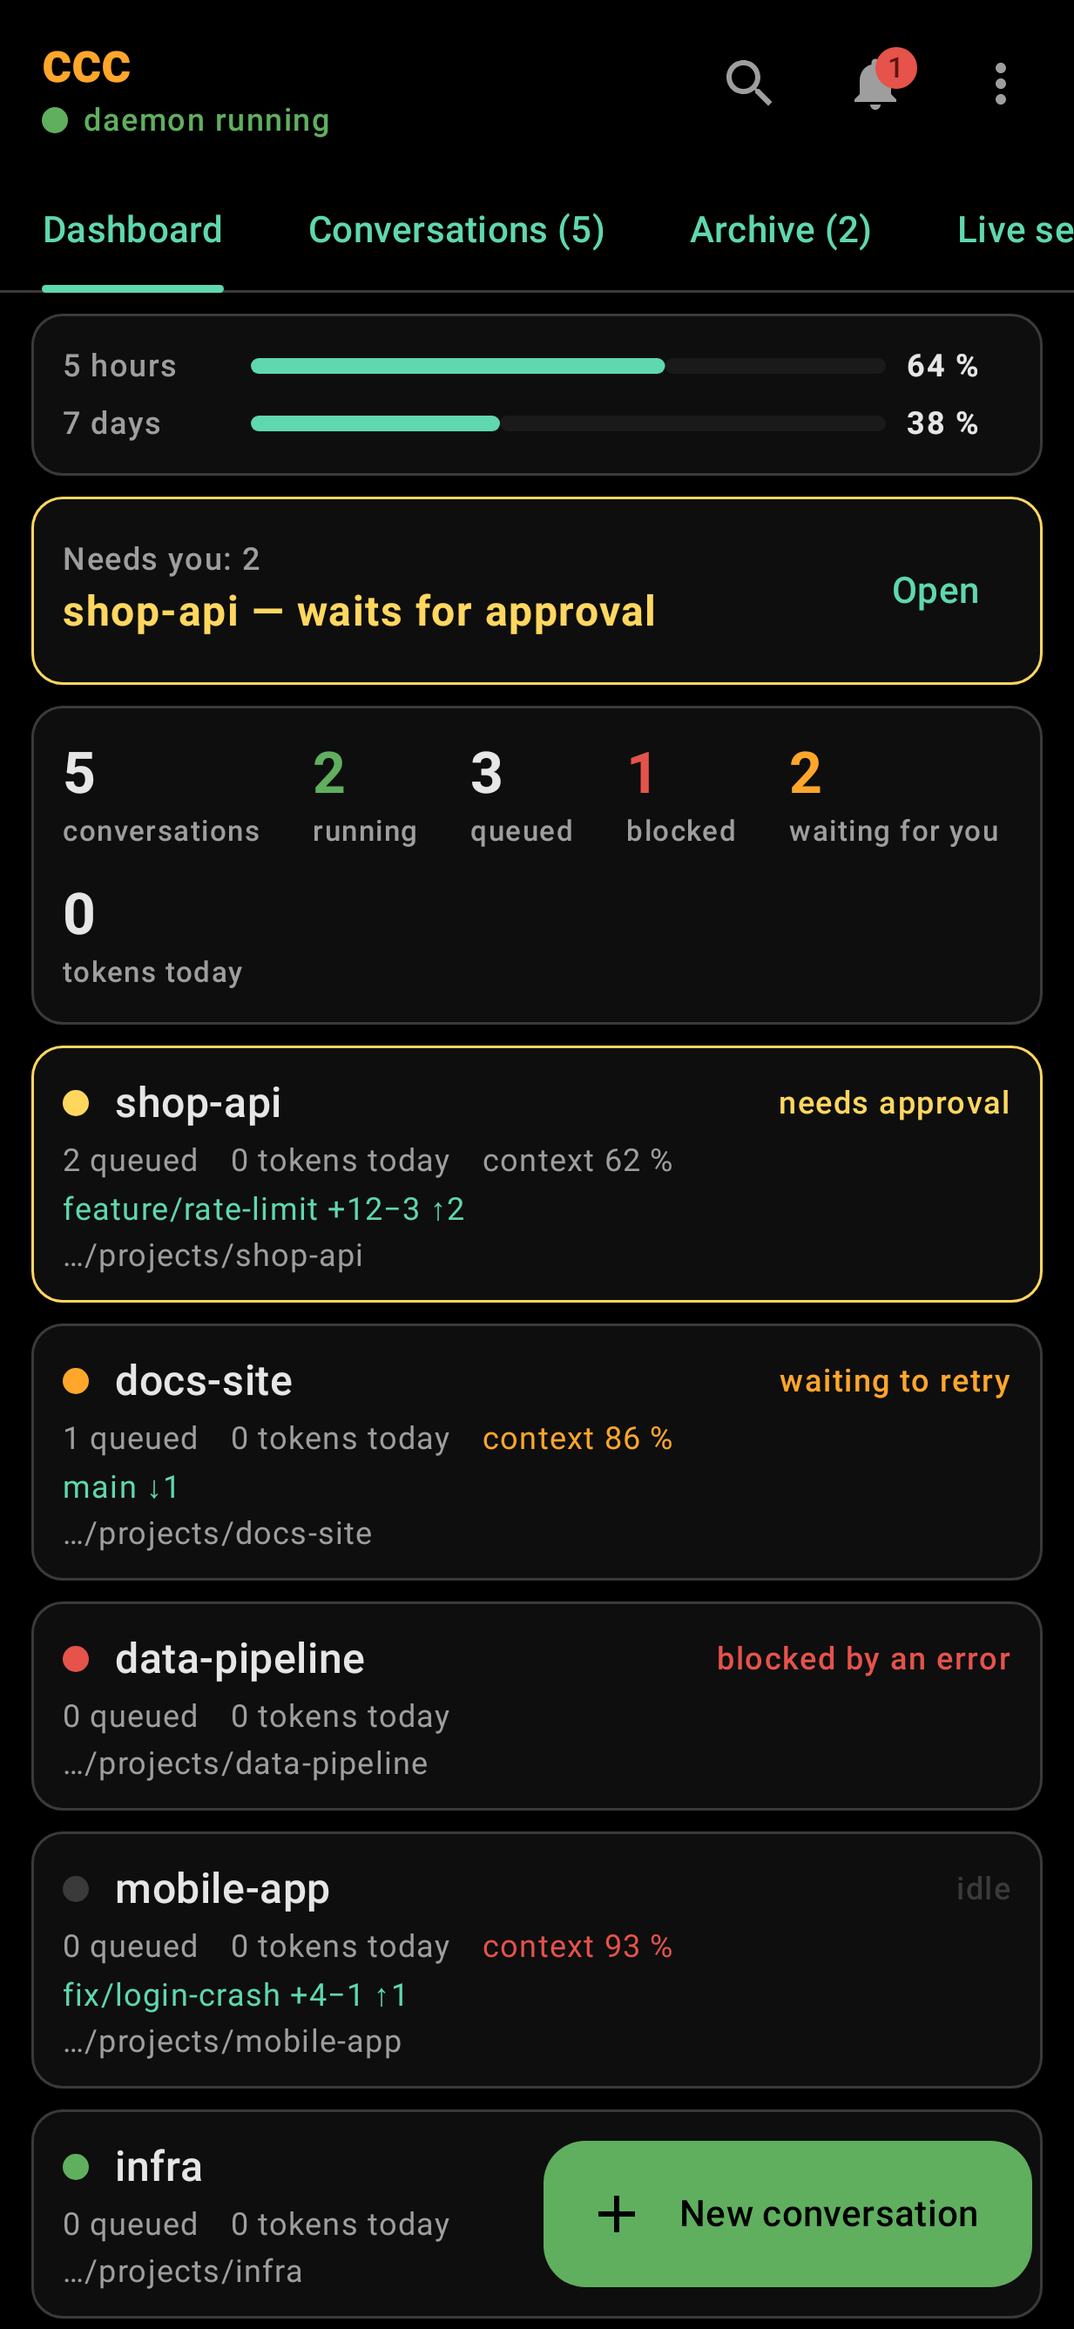
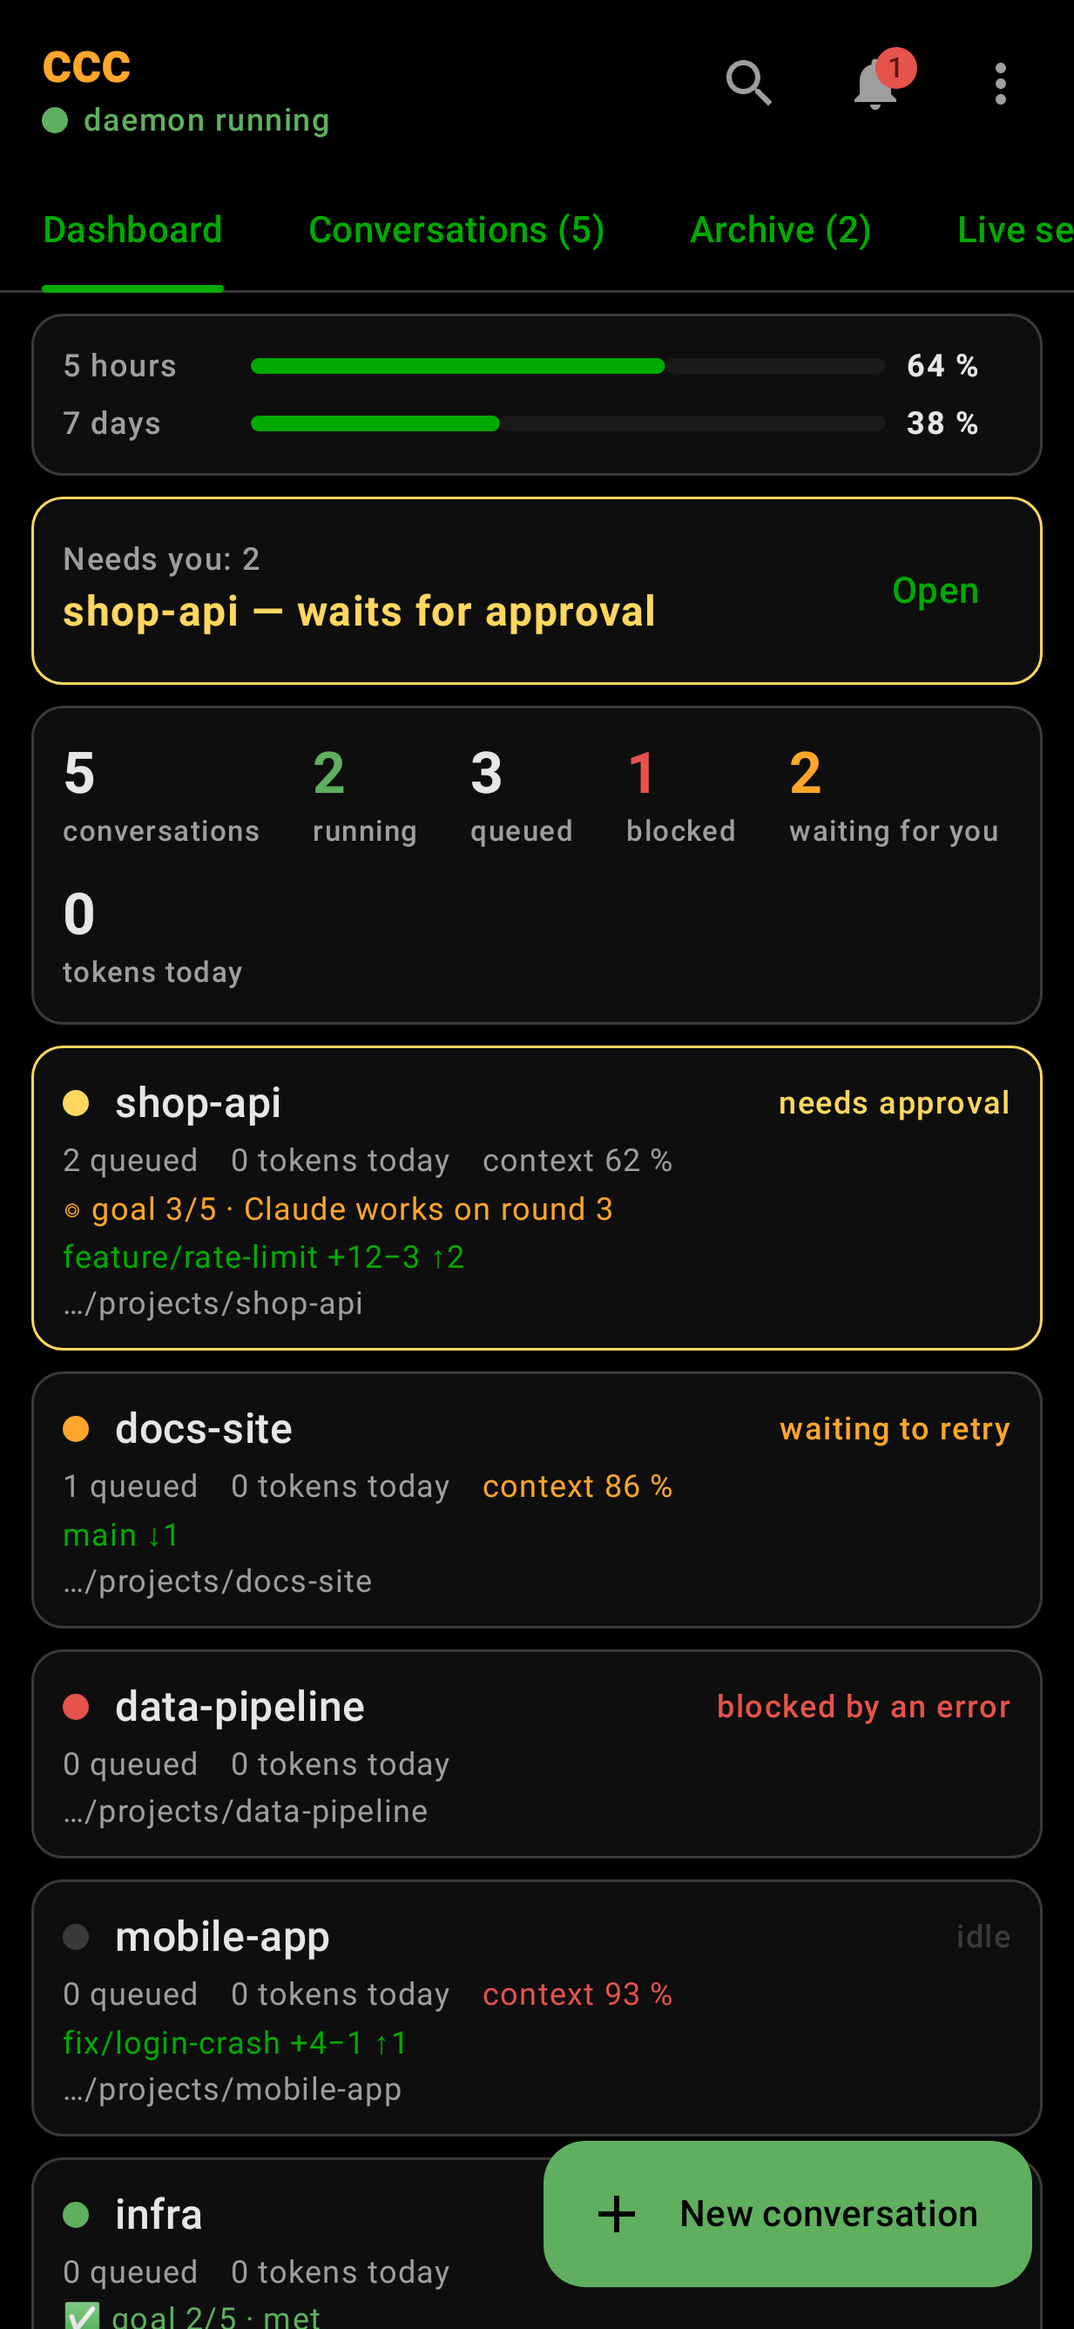
Dashboard and the app's list show a conversation's goal loop
A Goal column in the TUI Dashboard (running: round / rounds; for a day after
it ended: how it ended), a `goal` object in GET /conversations and the same
line in the Android Dashboard. One query for the newest goal of every
conversation (storage.latest_goals).

diff --git a/android/app/src/test/java/io/github/luquas95/ccc/ui/ScreenshotsTest.kt b/android/app/src/test/java/io/github/luquas95/ccc/ui/ScreenshotsTest.kt
@@ -29,6 +29,7 @@ import io.github.luquas95.ccc.data.GitState
 import io.github.luquas95.ccc.data.ListDetail
 import io.github.luquas95.ccc.data.ConversationTokens
 import io.github.luquas95.ccc.data.DayTokens
+import io.github.luquas95.ccc.data.GoalBrief
 import io.github.luquas95.ccc.data.Goals
 import io.github.luquas95.ccc.data.LiveSession
 import io.github.luquas95.ccc.data.ModelTokens
@@ -424,7 +425,8 @@ open class ScreenshotsTest {
             conversations = listOf(
                 Conversation(1, "shop-api", "/home/you/projects/shop-api", "running", "interactive", pending = 2,
                     needsApproval = true, group = Group("own:Release 2.1", "Release 2.1"),
-                    context = ContextFill(124_000, 62, ""), git = GitState("feature/rate-limit", 12, 3, 2, 0)),
+                    context = ContextFill(124_000, 62, ""), git = GitState("feature/rate-limit", 12, 3, 2, 0),
+                    goal = GoalBrief(7, "running", "running", "Claude works on round 3", 3, 5)),
                 Conversation(2, "docs-site", "/home/you/projects/docs-site", "waiting_retry", "interactive", pending = 1,
                     group = Group("own:Release 2.1", "Release 2.1"),
                     context = ContextFill(172_000, 86, "warn"), git = GitState("main", 0, 0, 0, 1)),
@@ -434,7 +436,8 @@ open class ScreenshotsTest {
                     group = Group("project:/home/you/projects/mobile-app", "mobile-app"),
                     context = ContextFill(186_000, 93, "danger"), git = GitState("fix/login-crash", 4, 1, 1, 0)),
                 Conversation(5, "infra", "/home/you/projects/infra", "running", "remote_control",
-                    group = Group("project:/home/you/projects/infra", "infra")),
+                    group = Group("project:/home/you/projects/infra", "infra"),
+                    goal = GoalBrief(8, "passed", "met", "", 2, 5)),
             ),
         )
 

diff --git a/android/app/src/test/java/io/github/luquas95/ccc/data/CccApiTest.kt b/android/app/src/test/java/io/github/luquas95/ccc/data/CccApiTest.kt
@@ -73,6 +73,27 @@ class CccApiTest {
     }
 
     @Test
+    fun `reads the latest goal loop of a conversation for the Dashboard`() = runBlocking {
+        answers["conversations"] = 200 to """[{"id": 1, "name": "shop", "path": "/p", "status": "running",
+            "delivery_mode": "interactive", "goal": {"id": 7, "status": "running", "status_label": "running",
+            "phase_label": "Claude works on round 3", "round": 3, "max_rounds": 5, "finished_at": null}},
+            {"id": 2, "name": "docs", "path": "/d", "status": "idle", "delivery_mode": "headless", "goal": null},
+            {"id": 3, "name": "api", "path": "/a", "status": "idle", "delivery_mode": "headless",
+            "goal": {"id": 8, "status": "passed", "status_label": "met", "phase_label": "", "round": 2, "max_rounds": 5}}]"""
+
+        val (shop, docs, api) = api().conversations()
+
+        assertEquals(true, shop.goal?.running)
+        assertEquals("◎", shop.goal?.icon)
+        assertEquals("Claude works on round 3", shop.goal?.phaseLabel)
+        assertEquals(3, shop.goal?.round)
+        assertEquals(5, shop.goal?.maxRounds)
+        assertNull(docs.goal)
+        assertEquals("✅", api.goal?.icon)
+        assertEquals("met", api.goal?.statusLabel)
+    }
+
+    @Test
     fun `reads the update a new ccc version brings and applies it`() = runBlocking {
         answers["status"] = 200 to """{"version": "0.1.0", "language": "en", "daemon_running": true, "conversations": 1,
             "running": 0, "needs_approval": 0, "android_build": 7,

diff --git a/android/app/src/main/java/io/github/luquas95/ccc/ui/ConversationsScreen.kt b/android/app/src/main/java/io/github/luquas95/ccc/ui/ConversationsScreen.kt
@@ -360,6 +360,20 @@ private fun DashboardRow(conversation: Conversation, onClick: () -> Unit) {
                     )
                 }
             }
+            conversation.goal?.let { goal ->
+                Text(
+                    stringResource(R.string.goal_line, goal.icon, goal.round, goal.maxRounds,
+                        if (goal.running) goal.phaseLabel else goal.statusLabel),
+                    style = MaterialTheme.typography.bodySmall,
+                    color = when (goal.status) {
+                        "running" -> CccColors.Waiting
+                        "passed" -> CccColors.Running
+                        "stopped" -> CccColors.Muted
+                        else -> CccColors.Error
+                    },
+                    maxLines = 1, overflow = TextOverflow.Ellipsis,
+                )
+            }
             conversation.git?.text?.takeIf { it.isNotEmpty() }?.let {
                 Text(it, style = MaterialTheme.typography.bodySmall, color = CccColors.Title, maxLines = 1, overflow = TextOverflow.Ellipsis)
             }

diff --git a/android/app/src/main/java/io/github/luquas95/ccc/data/Models.kt b/android/app/src/main/java/io/github/luquas95/ccc/data/Models.kt
@@ -68,8 +68,23 @@ data class Conversation(
     val group: Group? = null,
     val context: ContextFill? = null,
     val git: GitState? = null,
+    val goal: GoalBrief? = null,
 ) {
     val state: ConversationStatus get() = ConversationStatus.of(status)
+}
+
+/** Its latest goal loop for the list: while it runs and for a day after it ended (`goal` is null otherwise). */
+@Serializable
+data class GoalBrief(
+    val id: Int,
+    val status: String,
+    @SerialName("status_label") val statusLabel: String = "",
+    @SerialName("phase_label") val phaseLabel: String = "",
+    val round: Int = 1,
+    @SerialName("max_rounds") val maxRounds: Int = 1,
+) {
+    val running: Boolean get() = status == "running"
+    val icon: String get() = when (status) { "running" -> "◎"; "passed" -> "✅"; "stopped" -> "■"; "error" -> "✖"; else -> "⛔" }
 }
 
 /** How full the context window is; `level` is "", "warn" or "danger" by ccc's Settings thresholds. */

diff --git a/src/ccc/api.py b/src/ccc/api.py
@@ -73,7 +73,7 @@ from http.server import BaseHTTPRequestHandler, ThreadingHTTPServer
 from pathlib import Path
 from urllib.parse import parse_qs, urlsplit
 
-from ccc import context_fill, groups, i18n, launch_options, mcp_servers, updates
+from ccc import context_fill, goals, groups, i18n, launch_options, mcp_servers, updates
 from ccc.api_agents import AgentEndpoints
 from ccc import api_audit, api_roles, api_scope
 from ccc.api_common import ApiError, int_of, iso, route, task_line, text_of
@@ -348,9 +348,10 @@ class Api(AgentEndpoints, ViewEndpoints):
         for group, members in groups.grouped(queues, self.storage.conversation_groups(), groups.mode(self.storage)):
             info = {"key": group.key, "title": group.title} if group is not None else None
             listed += [(q, info) for q in members]
-        return [self._summary(q, q.id in unseen, q.id in waiting, info) for q, info in listed]
+        latest_goals = self.storage.latest_goals()
+        return [self._summary(q, q.id in unseen, q.id in waiting, info, latest_goals.get(q.id)) for q, info in listed]
 
-    def _summary(self, q, unseen: bool, needs_approval: bool, group: dict | None) -> dict:
+    def _summary(self, q, unseen: bool, needs_approval: bool, group: dict | None, goal=None) -> dict:
         return {
             "id": q.id,
             "name": q.name,
@@ -370,7 +371,17 @@ class Api(AgentEndpoints, ViewEndpoints):
             "group": group,
             "context": self._context_of(q),
             "git": self._git_of(q),
+            "goal": self._goal_of(goal),
         }
+
+    @staticmethod
+    def _goal_of(goal) -> dict | None:
+        """Its latest goal loop for the list: while it runs, and for a day after it ended (goals.shown); else null."""
+        if not goals.shown(goal):
+            return None
+        return {"id": goal.id, "status": goal.status.value, "status_label": _(goals.STATUS_LABELS[goal.status]),
+                "phase_label": _(goals.PHASE_LABELS[goal.phase]).format(n=goal.round),
+                "round": goal.round, "max_rounds": goal.max_rounds, "finished_at": iso(goal.finished_at)}
 
     def _context_of(self, q) -> dict | None:
         """How full its context window is (context_fill): tokens, percent
@@ -408,6 +419,7 @@ class Api(AgentEndpoints, ViewEndpoints):
         summary = self._summary(
             q, q.id in self.storage.unseen_queue_ids(), q.id in self.storage.queues_waiting_for_approval(),
             {"key": f"own:{own}", "title": own} if own else None,  # its own group (the list adds projects)
+            self.storage.latest_goals().get(q.id),
         )
         summary.update({
             "session_id": q.session_id,

diff --git a/tests/test_tui_dashboard.py b/tests/test_tui_dashboard.py
@@ -191,9 +191,9 @@ async def test_dashboard_shows_context_and_git_and_what_waits_for_you(tmp_path, 
         await pilot.pause(0.5)
         app.screen.refresh_table()
         headers, rows = _cells(app)
-        assert headers == ["Project", "Status", "Pending", "Today's tokens", "Context", "Git", "Path"]
+        assert headers == ["Project", "Status", "Goal", "Pending", "Today's tokens", "Context", "Git", "Path"]
         row = rows[0]
-        assert row[4] == "62%" and row[5] == "feature-x +12−3 ↑2" and row[6].endswith("shop-api")
+        assert row[5] == "62%" and row[6] == "feature-x +12−3 ↑2" and row[7].endswith("shop-api")
         assert "1 waiting for you" in app.screen.query_one("#dashboard-overview", Static).render().plain
 
 
@@ -205,7 +205,7 @@ async def test_columns_choice_does_not_depend_on_window_width(tmp_path, monkeypa
     app = CCContinueApp(db_path)
     async with app.run_test(size=(80, 30)) as pilot:
         await pilot.pause(0.5)
-        assert len(_cells(app)[0]) == 7  # the default is everything, even in a narrow window
+        assert len(_cells(app)[0]) == 8  # the default is everything, even in a narrow window
         dashboard_columns.save(storage, [dashboard_columns.GIT, dashboard_columns.PATH])
         app.screen.refresh_table()
         headers, rows = _cells(app)
@@ -227,3 +227,28 @@ def test_columns_choice_defaults_and_saves_in_table_order(tmp_path):
     assert dc.shown(storage) == [dc.STATUS, dc.PATH]
     dc.save(storage, [])  # chosen: none — only the name
     assert dc.shown(storage) == []
+
+
+@pytest.mark.asyncio
+async def test_dashboard_goal_column_shows_the_running_goal_then_its_result(tmp_path, monkeypatch):
+    from datetime import datetime, timedelta
+
+    from ccc import goals
+    from ccc.models import GoalStatus
+
+    db_path, storage, queue = _setup(tmp_path, monkeypatch)
+    app = CCContinueApp(db_path)
+    async with app.run_test(size=(160, 40)) as pilot:
+        await pilot.pause(0.5)
+        app.screen.refresh_table()
+        assert _cells(app)[1][0][2] == "–"  # no goal yet
+        goal = goals.start(storage, queue.id, "tokens expire", max_rounds=5)
+        storage.update_goal(goal.id, round=3)
+        app.screen.refresh_table()
+        assert _cells(app)[1][0][2] == "◎ 3/5"
+        storage.update_goal(goal.id, status=GoalStatus.PASSED, finished_at=datetime.now())
+        app.screen.refresh_table()
+        assert _cells(app)[1][0][2] == "✅ met 3/5"
+        storage.update_goal(goal.id, finished_at=datetime.now() - timedelta(days=2))
+        app.screen.refresh_table()
+        assert _cells(app)[1][0][2] == "–"  # a day later it leaves the Dashboard

diff --git a/src/ccc/tui/dashboard.py b/src/ccc/tui/dashboard.py
@@ -162,6 +162,15 @@ class DashboardScreen(SidebarScreen):
             cell.append((" " if cell else "") + status.short(), style="yellow")
         return cell
 
+    def _goal_cell(self, goal) -> Text:
+        """Its latest goal loop: running (round / rounds) or how it ended in the last day; `–` otherwise."""
+        from ccc import goals
+        from ccc.tui.goal import STATUS_STYLES
+
+        if not goals.shown(goal):
+            return Text("–", style="dim")
+        return Text(goals.short_text(goal), style=STATUS_STYLES[goal.status])
+
     def _context_cell(self, queue, warn: int, danger: int) -> Text:
         fill = self._context_fills.get(queue.id)
         if fill is None:
@@ -181,6 +190,7 @@ class DashboardScreen(SidebarScreen):
         unseen = self.storage.unseen_queue_ids()
         waiting = self.storage.queues_waiting_for_approval()
         warn, danger = context_fill.thresholds(self.storage)
+        latest_goals = self.storage.latest_goals()
         rows = []
         for queue in queues:
             pending = self.storage.count_pending_items(queue.id)
@@ -193,6 +203,7 @@ class DashboardScreen(SidebarScreen):
                 queue_label(queue, queue.id in unseen, needs_approval=queue.id in waiting),
                 {
                     dashboard_columns.STATUS: Text.from_markup(styled_status(queue.status)),
+                    dashboard_columns.GOAL: self._goal_cell(latest_goals.get(queue.id)),
                     dashboard_columns.PENDING: Text(str(pending)),
                     dashboard_columns.TOKENS: Text(f"{today_tokens:,}"),
                     dashboard_columns.CONTEXT: self._context_cell(queue, warn, danger),

diff --git a/tests/test_api.py b/tests/test_api.py
@@ -649,6 +649,27 @@ def test_conversations_carry_context_and_git(storage, tmp_path, monkeypatch):
     assert len(calls) == 2
 
 
+def test_conversations_carry_the_latest_goal_while_it_runs_and_a_day_after(storage, tmp_path):
+    from datetime import datetime, timedelta
+
+    from ccc import goals
+    from ccc.models import GoalStatus
+
+    q = _queue(storage, tmp_path)
+    server = api.Api(storage)
+    assert server.conversations()[0]["goal"] is None
+    goal = goals.start(storage, q.id, "tokens expire", max_rounds=5)
+    storage.update_goal(goal.id, round=2)
+    listed = server.conversations()[0]["goal"]
+    assert listed["status"] == "running" and (listed["round"], listed["max_rounds"]) == (2, 5)
+    assert listed["status_label"] == "running" and listed["phase_label"] and listed["finished_at"] is None
+    assert server.conversation(q.id)["goal"]["id"] == goal.id
+    storage.update_goal(goal.id, status=GoalStatus.STUCK, finished_at=datetime.now())
+    assert server.conversations()[0]["goal"]["status"] == "stuck"
+    storage.update_goal(goal.id, finished_at=datetime.now() - timedelta(days=2))
+    assert server.conversations()[0]["goal"] is None
+
+
 def test_no_context_and_no_git_where_claude_may_not_run_commands(storage, tmp_path, monkeypatch):
     from ccc import gitops
 

diff --git a/src/ccc/goals.py b/src/ccc/goals.py
@@ -20,7 +20,7 @@ from __future__ import annotations
 
 import asyncio
 import subprocess
-from datetime import datetime
+from datetime import datetime, timedelta
 
 from ccc import gitops, reviews
 from ccc.i18n import N_, _
@@ -44,6 +44,26 @@ def active(storage, queue_id: int) -> Goal | None:
         if goal.status == GoalStatus.RUNNING:
             return goal
     return None
+
+
+# A finished goal stays on the Dashboard and in the app's list this long; a running one always.
+SHOW_FINISHED_FOR = timedelta(hours=24)
+
+
+def shown(goal: Goal | None, now: datetime | None = None) -> bool:
+    """Whether the overviews (Dashboard, app list) show this conversation's latest goal."""
+    if goal is None:
+        return False
+    if goal.status == GoalStatus.RUNNING:
+        return True
+    return (now or datetime.now()) - (goal.finished_at or goal.created_at) < SHOW_FINISHED_FOR
+
+
+def short_text(goal: Goal) -> str:
+    """One short line: "◎ 3/5" while it runs, "✅ met 3/5" once it's over."""
+    if goal.status == GoalStatus.RUNNING:
+        return f"◎ {goal.round}/{goal.max_rounds}"
+    return f"{FINISHED_ICONS[goal.status]} {_(STATUS_LABELS[goal.status])} {goal.round}/{goal.max_rounds}"
 
 
 def first_prompt(goal: Goal) -> str:

diff --git a/src/ccc/storage.py b/src/ccc/storage.py
@@ -961,6 +961,12 @@ class Storage:
         with closing(self._connect()) as conn:
             return [self._row_to_goal(r) for r in conn.execute(sql + " ORDER BY id DESC", args).fetchall()]
 
+    def latest_goals(self) -> dict[int, Goal]:
+        """The newest goal of every conversation that has one, in one query (the Dashboard and the API list)."""
+        with closing(self._connect()) as conn:
+            rows = conn.execute("SELECT * FROM goals WHERE id IN (SELECT MAX(id) FROM goals GROUP BY queue_id)").fetchall()
+        return {r["queue_id"]: self._row_to_goal(r) for r in rows}
+
     def update_goal(self, goal_id: int, **fields) -> None:
         if not fields:
             return

diff --git a/src/ccc/dashboard_columns.py b/src/ccc/dashboard_columns.py
@@ -4,10 +4,11 @@ from __future__ import annotations
 
 from ccc.i18n import N_
 
-STATUS, PENDING, TOKENS, CONTEXT, GIT, PATH = "status", "pending", "tokens", "context", "git", "path"
+STATUS, GOAL, PENDING, TOKENS, CONTEXT, GIT, PATH = "status", "goal", "pending", "tokens", "context", "git", "path"
 # In table order, with the heading each has.
 COLUMNS: tuple[tuple[str, str], ...] = (
     (STATUS, N_("Status")),
+    (GOAL, N_("Goal")),
     (PENDING, N_("Pending")),
     (TOKENS, N_("Today's tokens")),
     (CONTEXT, N_("Context")),

diff --git a/src/ccc/help/cs/android-api.md b/src/ccc/help/cs/android-api.md
@@ -174,7 +174,7 @@ jen to, co platí pro obě strany.
 | | |
 |---|---|
 | `GET /status` | běží daemon?, kolik konverzací, kolik běží, kolik čeká na schválení |
-| `GET /conversations` | seznam v pořadí jako v TUI, se skupinami, stavy, zprávami ve frontě a značkami, zaplněním kontextového okna (`context`: tokeny, procenta, úroveň) a stavem gitu (`git`: větev, přidané, odebrané, před, za; `null`, kde Claude nesmí spouštět příkazy); `?archived=1` archiv |
+| `GET /conversations` | seznam v pořadí jako v TUI, se skupinami, stavy, zprávami ve frontě a značkami, zaplněním kontextového okna (`context`: tokeny, procenta, úroveň) a stavem gitu (`git`: větev, přidané, odebrané, před, za; `null`, kde Claude nesmí spouštět příkazy) a její poslední [smyčkou k cíli](goal.md) (`goal`: id, status, status_label, phase_label, round, max_rounds, finished_at; za běhu a den po skončení, jinak `null`); `?archived=1` archiv |
 | `GET /conversations/{id}` | jedna konverzace s jejími zprávami ve frontě a čekajícími schváleními |
 | `GET /conversations/{id}/messages` | její přepis, každá zpráva s `index`; `?after=N` jen novější, `?before=N` starší, `?limit=` kolik (200) |
 | `POST /conversations/{id}/messages` | `{"text": "…"}` zařadí zprávu do fronty, jako pole pro zprávu |
